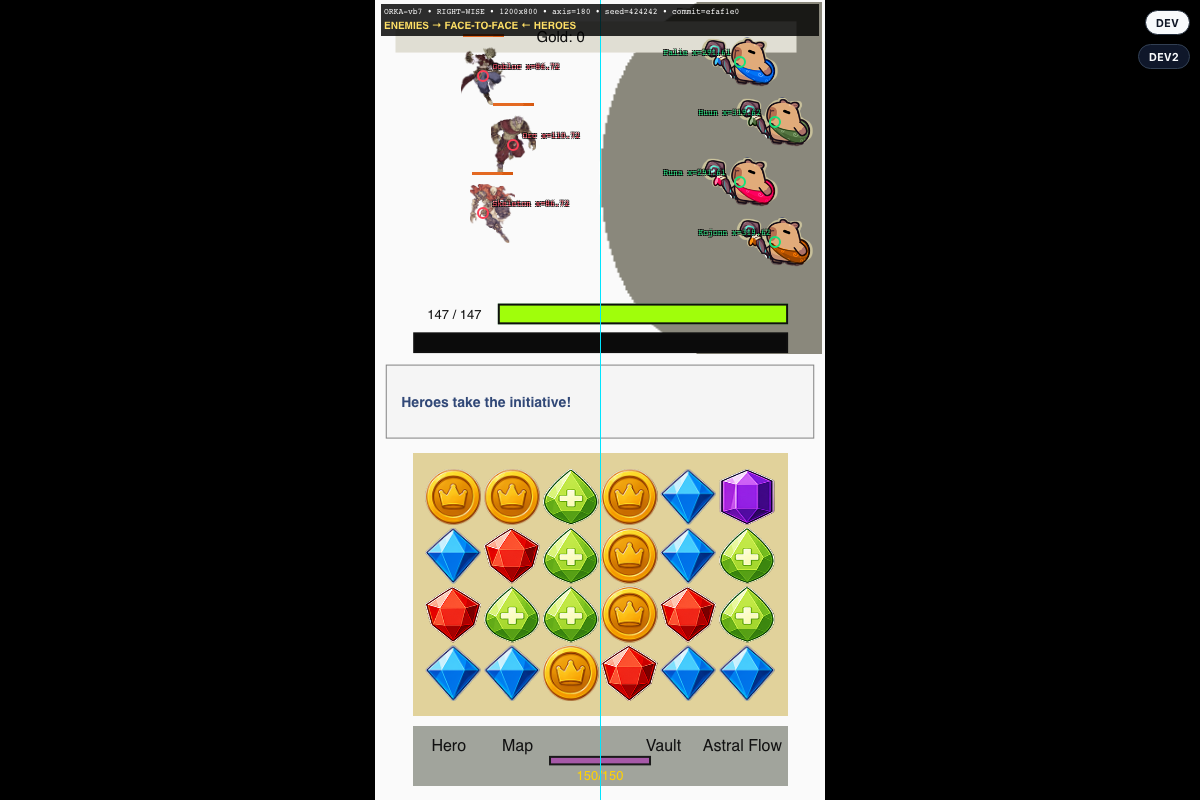
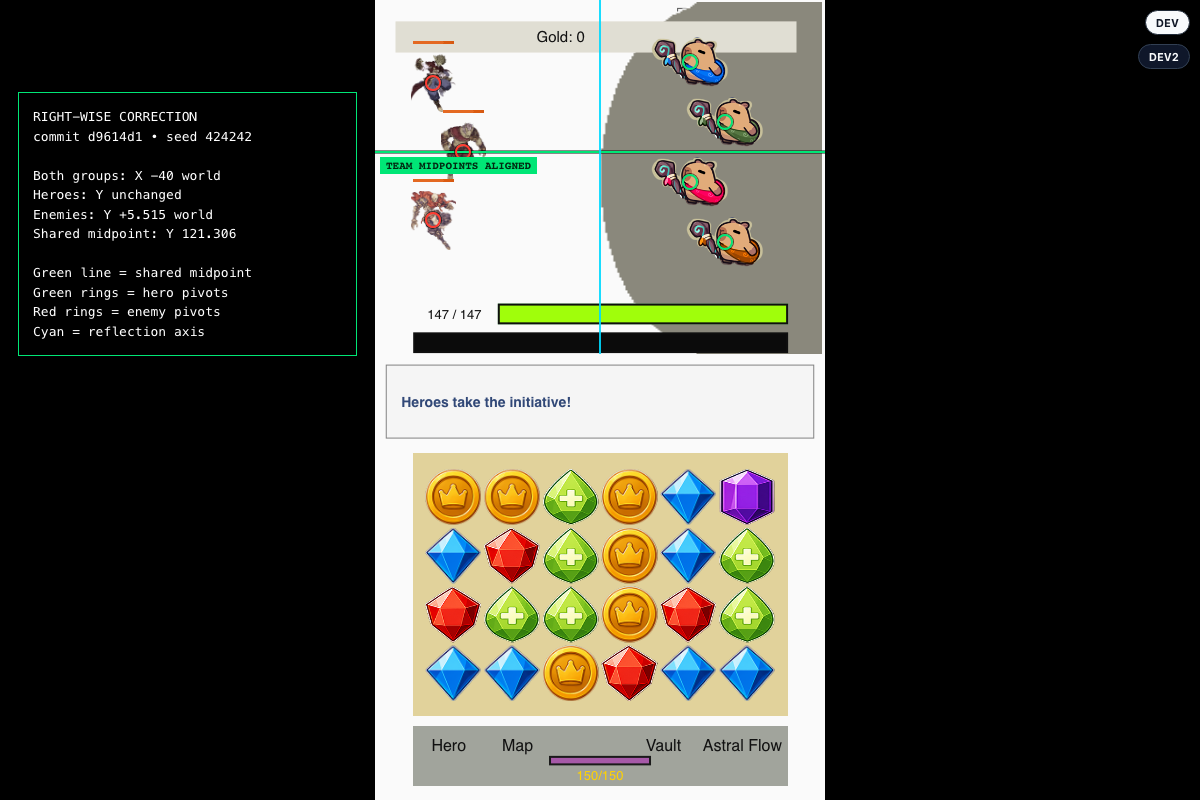
docs(qa): refresh formation alignment proof
- Add exact-commit annotated screenshots at canonical and scaled viewports.

- Record shared X translation and aligned formation midpoint geometry.

bd-ORKA-vb7

diff --git a/governance/qa/ORKA-vb7-combat-orientation/README.md b/governance/qa/ORKA-vb7-combat-orientation/README.md
@@ -1,6 +1,6 @@
 # ORKA-vb7 Combat Orientation Proof
 
-- Runtime commit: `efaf1e03688e9d7fafc353c46efaefcb5bb70e42`
+- Runtime correction commit: `d9614d19864e020abcc6c92e83734e4861122f47`
 - Branch: `bead/ORKA-vb7-combat-orientation`
 - Seed: `424242`
 - Roster: Falie, Huun, Runa, Kojonn vs Gobloc, Orc, Skeleton
@@ -8,11 +8,11 @@
 - Browser viewports: `1200x800` and `900x700`
 - Browser page errors: none
 
-The cyan line marks the reflection axis. Green rings mark hero standing pivots; red rings mark enemy pivots. Yellow arrows annotate inward facing. Each right-wise x equals `360 - left-wise x`; UID, kind, slot, y, HP, stats, initiative order, and board state remain equal.
+The cyan line marks the reflection axis. Green rings mark hero standing pivots; red rings mark enemy pivots. Each right-wise x equals `360 - left-wise x - 40`. Hero Y is unchanged. Enemies receive one `+5.515475986` world-Y block translation, aligning both formation midpoints at world Y `121.305986421` while preserving all intra-team spacing.
 
-The original right-wise QA frame exposed a presentation defect: reflected pivots moved directional/asymmetric art without reflecting its pixels, leaving teams back-to-back and silhouettes biased right. Commit `efaf1e0` reflects only right-wise actor pixels about the already-correct oriented pivot, including hit-flash redraws. Source assets, pivots, hit regions, combat state, and rules are unchanged.
+The original right-wise QA frame exposed a presentation defect: reflected pivots moved directional/asymmetric art without reflecting its pixels, leaving teams back-to-back and silhouettes biased right. Commit `efaf1e0` fixed facing. Follow-up commit `d9614d1` applies the approved shared left translation and derived enemy midpoint alignment to sprites, hit regions, bars, text, and actor-attached effects. Source assets, canonical combat state, and rules are unchanged.
 
-Final paired captures were frozen at full party HP (`147/147`) with identical hero/enemy HP and identical 24-gem color order before annotation. This removes combat progression as a comparison variable.
+The corrected right-wise captures were taken from exact commit `d9614d1`, frozen at full party HP (`147/147`) with 24 gems and no page errors. The left-wise captures are the unchanged `efaf1e0` reference baseline; the correction contract and tests prove left-wise remains byte-compatible.
 
 ## Images
 
